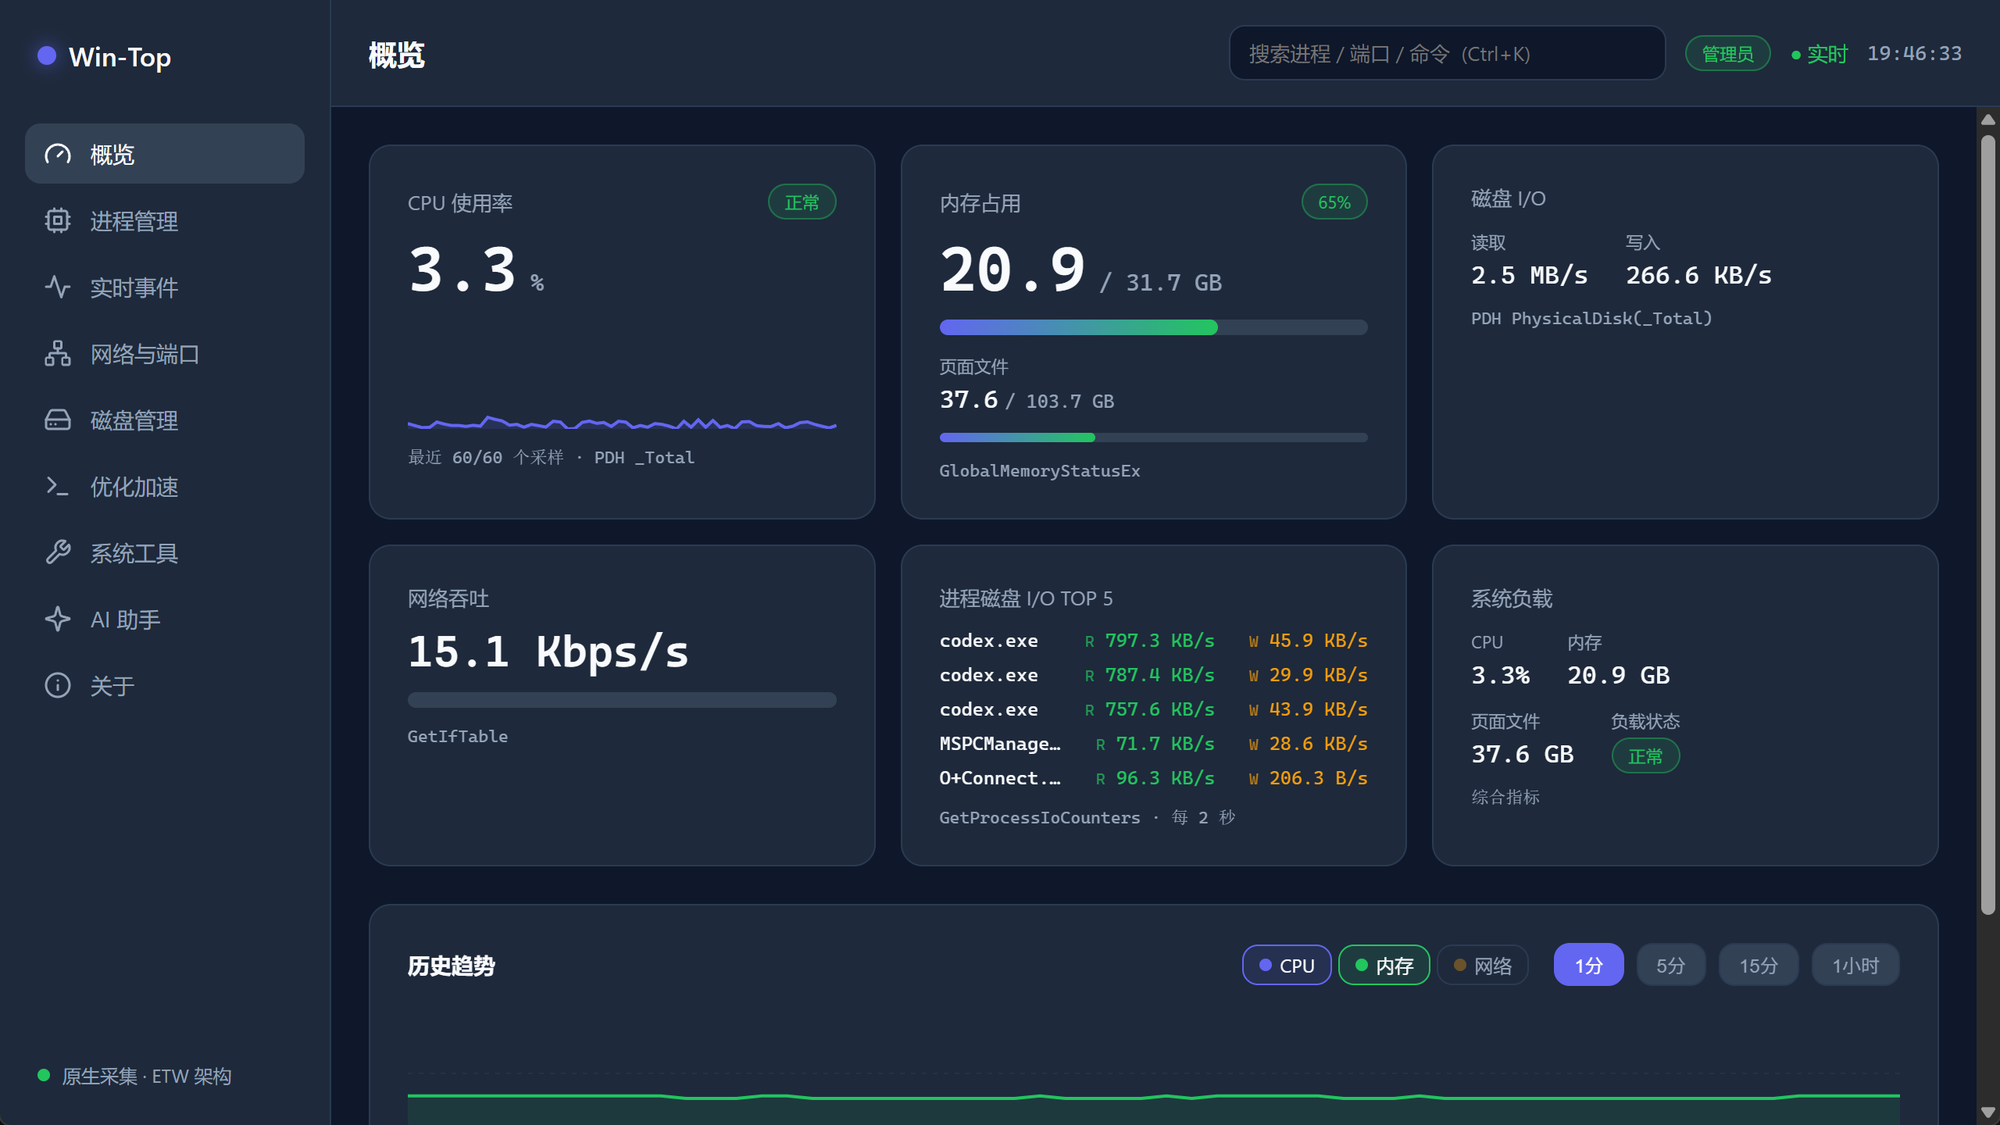
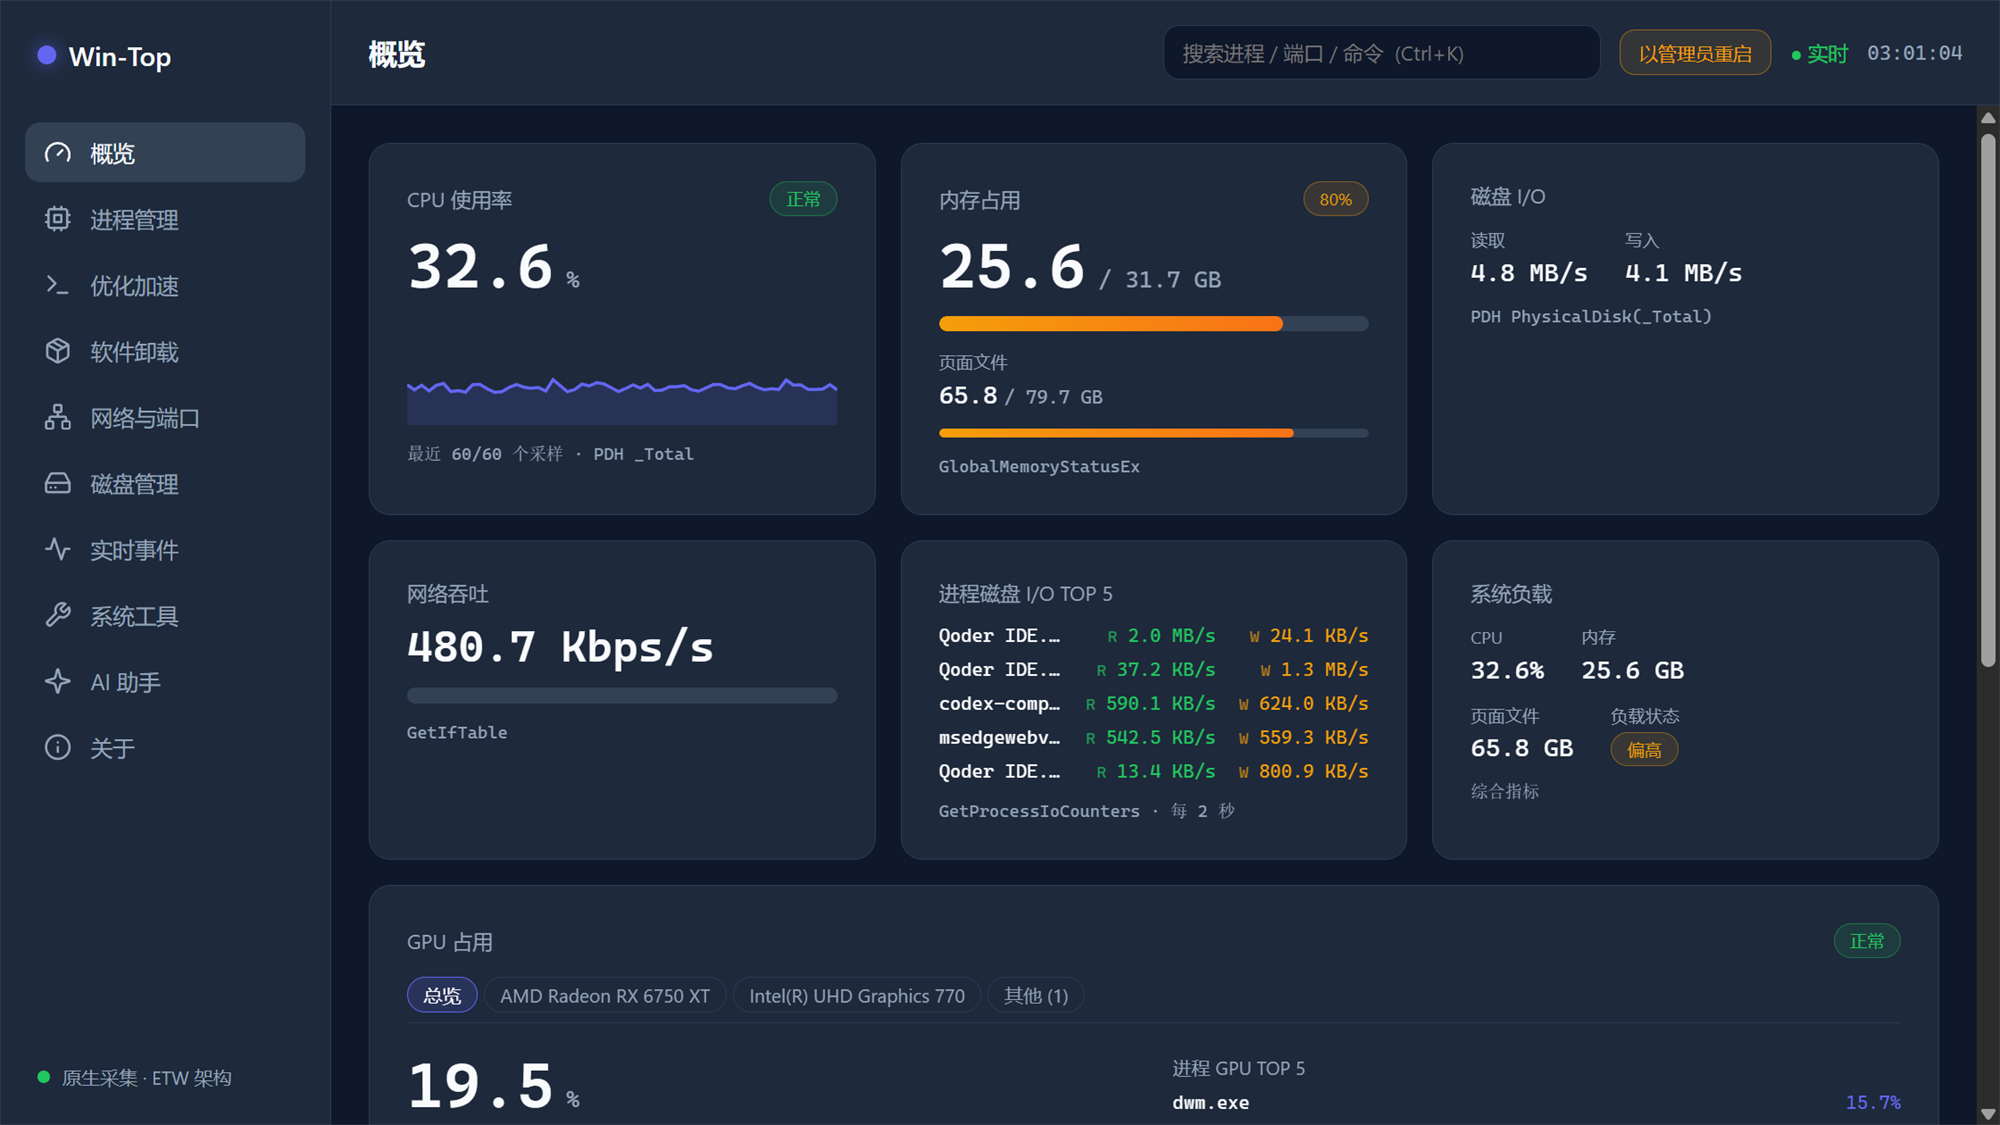
docs(screenshots): 更新 0.1.6 界面截图并内嵌到 README
- 01-overview / 02-processes 更新为 0.1.6 实际界面（侧栏已含「软件卸载」，
  进程表已含 GPU 与显存两列）
- 新增 08-gpu（概览 GPU 卡片：总览 + 每张显卡一个 Tab）与
  09-gpu-single（单卡 Tab：引擎分解 + 逐卡进程 TOP 8）
- README 由「截图见目录」升级为内嵌 4 张关键截图，提升可读性与搜索引擎摘要质量
- 02-processes 由 .jpg 改为 .png（UI 截图用无损格式）
- 全部截图统一为 2000x1125，与既有截图一致

diff --git a/README.md b/README.md
@@ -11,6 +11,8 @@
 
 > 适用场景：任务管理器看不够细的时候（**每进程 GPU 占用与显存**、端口到底被谁占着、磁盘空间去哪了、开机为什么变慢）；也适合作为一台 Windows 机器的常驻健康看板。
 
+![Win-Top 概览：CPU / 内存 / 磁盘 I/O / 网络 / GPU 一屏总览](docs/screenshots/01-overview.png)
+
 ---
 
 ## 功能一览
@@ -26,7 +28,7 @@
 | **系统工具** | 防火墙规则查看与开关；系统还原点；文件占用解锁；系统快照导出（JSON / CSV） |
 | **AI 助手** | 接入任意 OpenAI 兼容接口（预置 8 家厂商）；每次提问自动附带真实系统快照，基于实测数据给建议，并优先引导使用软件内已有功能 |
 
-> 截图见 [`docs/screenshots/`](docs/screenshots/)。
+> 全部 9 张截图见 [`docs/screenshots/`](docs/screenshots/)。
 
 ---
 
@@ -34,10 +36,20 @@
 
 Windows 的 GPU 性能计数器按 **(进程, 显卡, 引擎)** 暴露实例，Win-Top 直接读这套数据，因此能做到任务管理器之外的粒度：
 
+![概览 GPU 卡片：总览 + 每张独立显卡一个 Tab](docs/screenshots/08-gpu.png)
+
 - **每进程 GPU 占用**：取「最忙引擎」口径（与任务管理器一致），并可展开看该进程在各张卡上的分解；
 - **每进程显存**：专用 / 共享分列，支持排序；
 - **概览 GPU 卡片**：一张总览 + 每张独立显卡一个 Tab，含各卡占用、引擎分解、专用/共享显存、该卡自己的进程 TOP 8；
 - **历史趋势**：GPU 曲线与 CPU / 内存 / 网络并列，时间窗 1 分 ~ 30 天。
+
+单卡 Tab 给出该卡自己的占用、引擎分解、专用 / 共享显存，以及该卡的进程 TOP 8：
+
+![单卡 Tab：引擎分解与逐卡进程排行](docs/screenshots/09-gpu-single.png)
+
+「进程管理」中 GPU 与显存是独立的可排序列，详情面板给出该进程的逐卡分解：
+
+![进程管理：GPU 与显存列](docs/screenshots/02-processes.png)
 
 采集口径上有一处**必须说明**的地方：各进程的「专用显存」**不能相加**当作显卡占用。跨进程共享的画面显存会被同时记在每个持有它的进程名下——本机实测各进程相加 10.24 GiB，而显卡自身只报 5.02 GiB（`dwm.exe` 单个进程就报 5.72 GiB，比整卡还多）。显卡级占用一律读 `\GPU Adapter Memory(*)`，进程级才读 `\GPU Process Memory(*)`。
 
